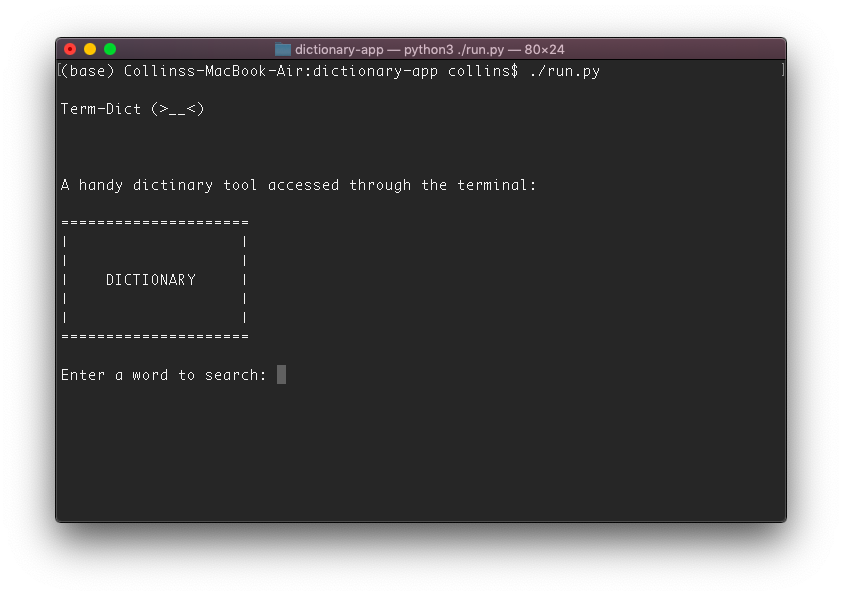
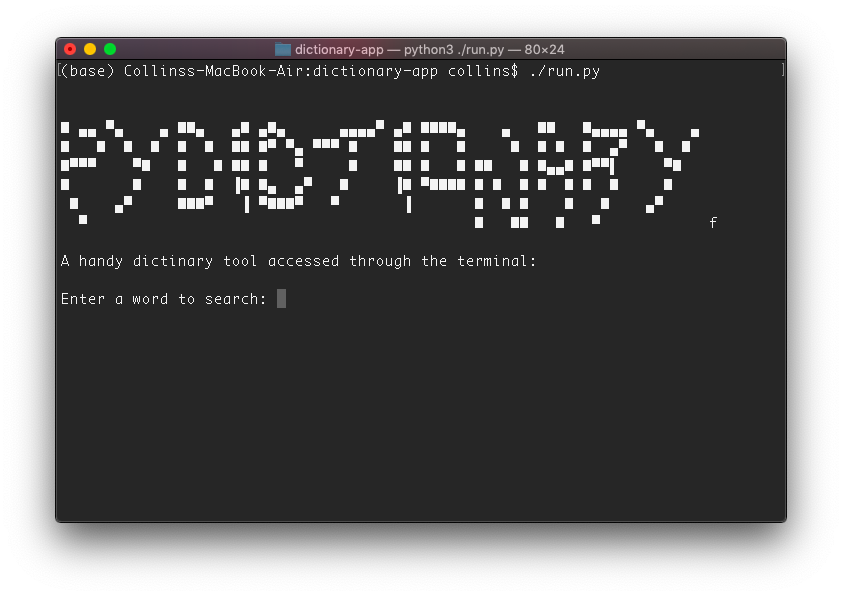
Adds ASCII art

diff --git a/run.py b/run.py
@@ -10,26 +10,14 @@ data = json.load(handle)
 print(
 '''
 
-The py-dictionary
+█ ▄▄ ▀▄    ▄ ██▄   ▄█ ▄█▄      ▄▄▄▄▀ ▄█ ████▄    ▄   ██   █▄▄▄▄ ▀▄    ▄ 
+█   █  █  █  █  █  ██ █▀ ▀▄ ▀▀▀ █    ██ █   █     █  █ █  █  ▄▀   █  █  
+█▀▀▀    ▀█   █   █ ██ █   ▀     █    ██ █   █ ██   █ █▄▄█ █▀▀▌     ▀█   
+█       █    █  █  ▐█ █▄  ▄▀   █     ▐█ ▀████ █ █  █ █  █ █  █     █    
+ █    ▄▀     ███▀   ▐ ▀███▀   ▀       ▐       █  █ █    █   █    ▄▀     
+  ▀                                           █   ██   █   ▀            f
 
-(\__/) || 
-(•ㅅ•) || 
-/ 　 づ
-
-'''
-    )
-
-print(
-'''
 A handy dictinary tool accessed through the terminal:
-
-    =====================
-    |                   |
-    |                   |
-    |    DICTIONARY     |
-    |                   |
-    |                   |
-    =====================
 '''
     )
 
@@ -51,7 +39,7 @@ def search(word=input("Enter a word to search: ").lower()):
             # print(data[word])
             for w in data[word]:
                 print("-" + w)
-            print("-----------------------------------------")
+                print("-----------------------------------------")
         elif response.startswith("n"):
             print("The word does not exist, please check again.")
             print("-----------------------------------------")
